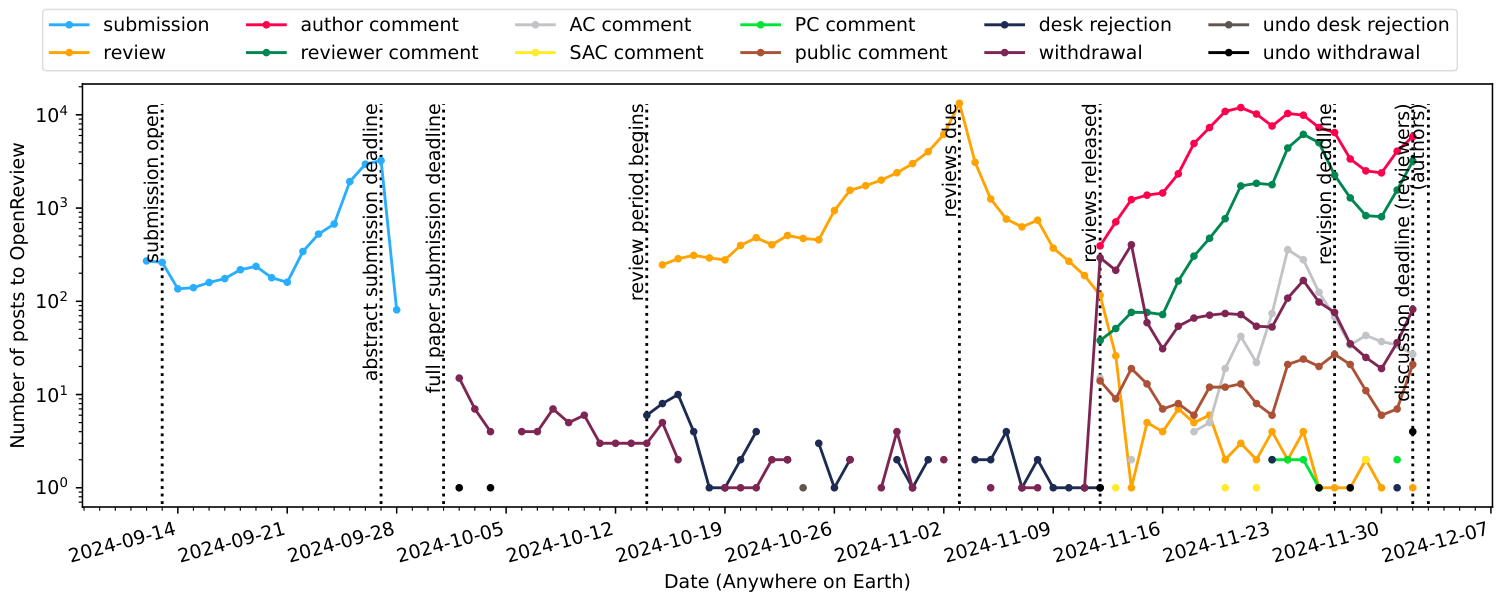
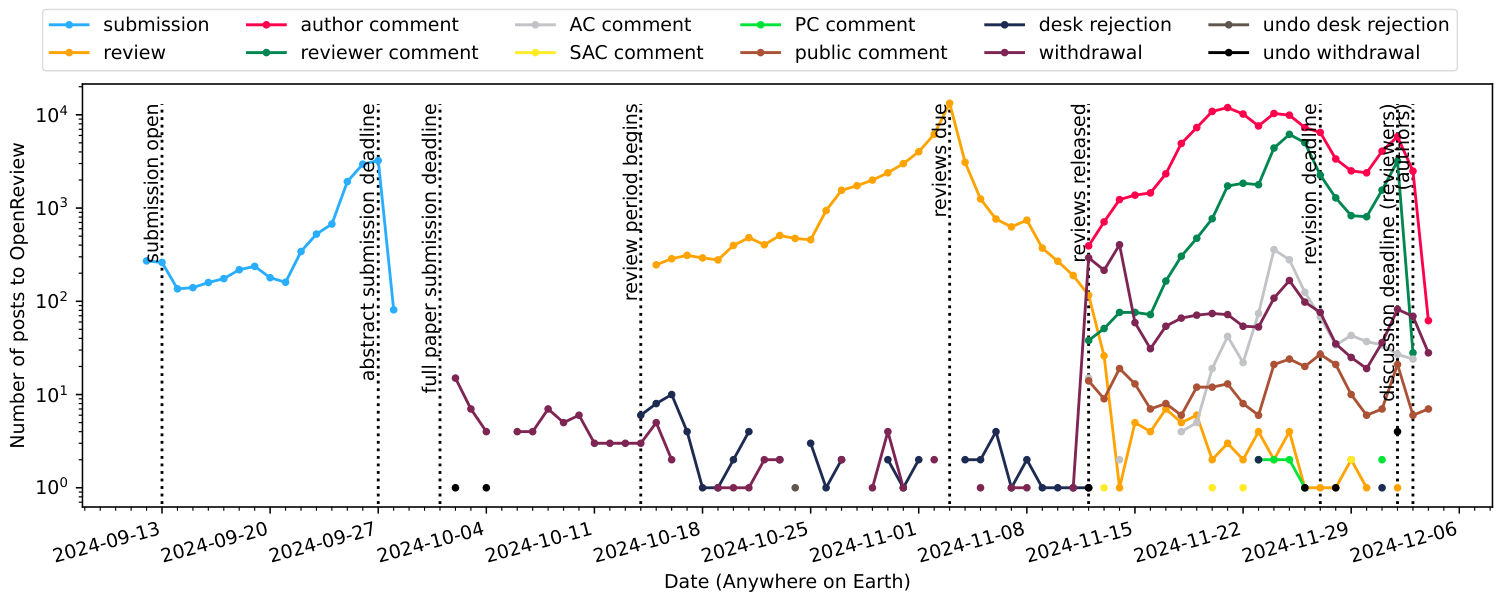
update timeline

diff --git a/main.py b/main.py
@@ -74,8 +74,8 @@ def analyse_review_timeline(
         import math
         for k in event_dates:
             count = event_dates[k][date]
-            if date == datetime.date(2024, 12, 3):
-                count = 0
+            # if date == datetime.date(2024, 12, 3):
+            #     count = 0
             event_hists[k].append(count if count else None)
 
     print("plotting timeline...")

diff --git a/README.md b/README.md
@@ -32,8 +32,7 @@ The above plots the number of each type of event per day (logarithmic scale
 for the counts, the spike at the review deadline is really sharp on a linear
 scale).
 
-NOTE: The timeline only goes until 2024-12-02 because I haven't collected
-data for subsequent days yet. I will update this later.
+NOTE: Data from 2024-12-04 is incomplete.
 
 Observations:
 
